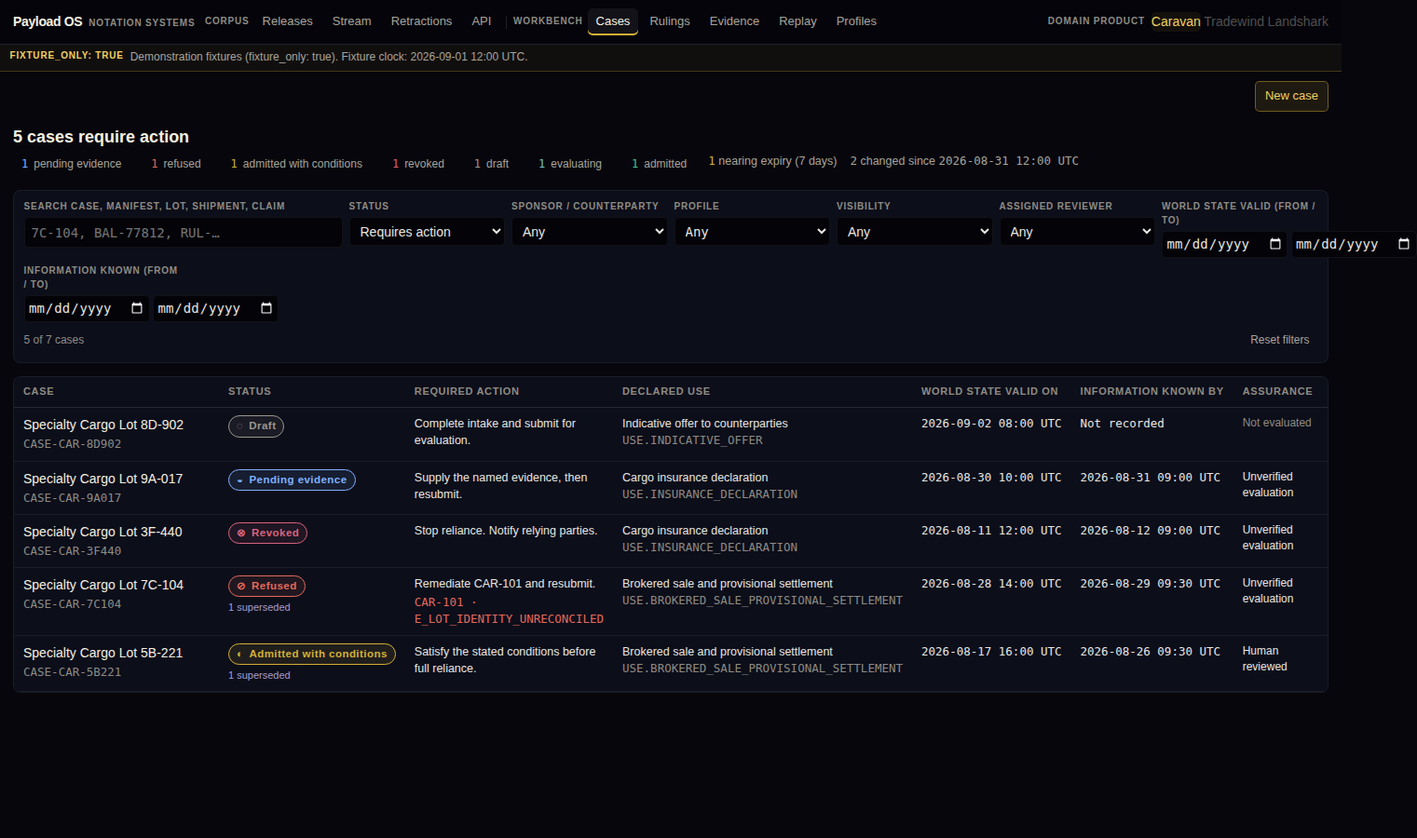
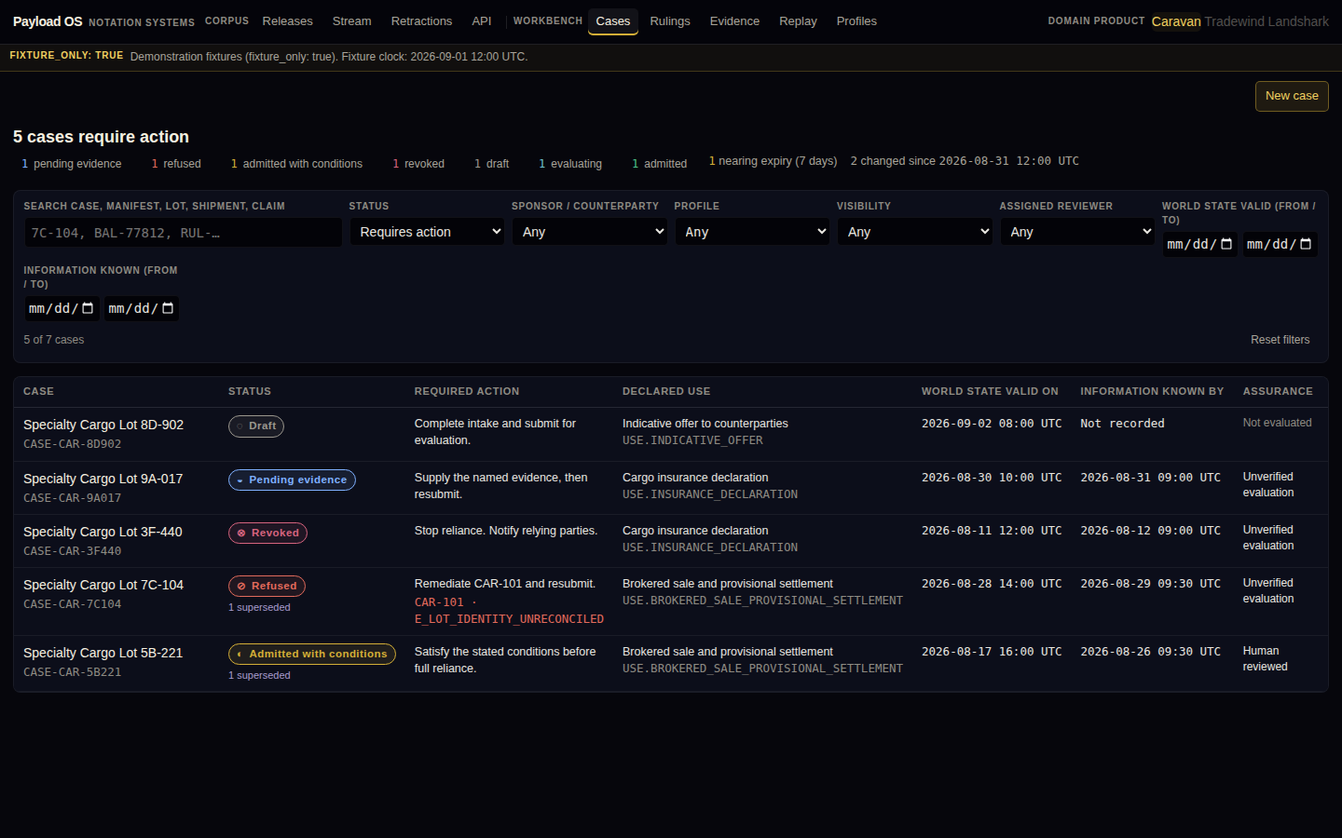
Keep the data-os fit green on mobile and let approval-required publishing name the public audience
Registrations that require approval to PUBLISH now list PUBLIC among their
audiences, so redistribution evaluates to APPROVAL_REQUIRED rather than an
audience denial, and the public projection is withheld by rights before
visibility is consulted. The feed tests and the rights-matrix legend say so.

Mobile Chrome reported a 1558px layout viewport on the release page: the
visually-hidden decision text inside rights-matrix cells is absolutely
positioned, the scroll region was not its containing block, so 63 of those
boxes sat at their static position past the viewport and widened the
document. Every horizontal scroll region is now a positioned container, the
API page tables sit inside scroll regions, and the queue filter controls
shrink to their grid cell. A Playwright guard measures every page, with
disclosures open and closed, so the document never scrolls horizontally.

Also fixes the capture-contract test type and re-stamps the digests.

Claude-Session: https://claude.ai/code/session_01YavvFTG3jpkFTZgGR3Zgq9

diff --git a/src/components/queue/CaseQueue.tsx b/src/components/queue/CaseQueue.tsx
@@ -96,58 +96,58 @@ export function CaseQueue({ cases, lastSeenAt }: { cases: ClaimCaseBundle[]; las
 
       {/* Filters */}
       <form className="surface p-3 grid gap-2 grid-cols-2 md:grid-cols-4 xl:grid-cols-8" aria-label="Queue filters" onSubmit={(e) => e.preventDefault()}>
-        <label className="flex flex-col gap-1 col-span-2">
+        <label className="flex flex-col gap-1 min-w-0 col-span-2">
           <span className="label-sm">Search case, manifest, lot, shipment, claim</span>
-          <input type="search" value={f.q} onChange={(e) => set('q', e.target.value)} placeholder="7C-104, BAL-77812, RUL-…" className="surface-inset px-2 py-1.5 text-[13px] mono" />
+          <input type="search" value={f.q} onChange={(e) => set('q', e.target.value)} placeholder="7C-104, BAL-77812, RUL-…" className="surface-inset px-2 py-1.5 text-[13px] w-full min-w-0 mono" />
         </label>
-        <label className="flex flex-col gap-1">
+        <label className="flex flex-col gap-1 min-w-0">
           <span className="label-sm">Status</span>
-          <select value={f.status} onChange={(e) => set('status', e.target.value as Filters['status'])} className="surface-inset px-2 py-1.5 text-[13px]">
+          <select value={f.status} onChange={(e) => set('status', e.target.value as Filters['status'])} className="surface-inset px-2 py-1.5 text-[13px] w-full min-w-0">
             <option value="ACTION">Requires action</option>
             <option value="ALL">All</option>
             {RULING_STATUSES.map((s) => <option key={s} value={s}>{STATUS_SEMANTICS[s].label}</option>)}
           </select>
         </label>
-        <label className="flex flex-col gap-1">
+        <label className="flex flex-col gap-1 min-w-0">
           <span className="label-sm">Sponsor / counterparty</span>
-          <select value={f.party} onChange={(e) => set('party', e.target.value)} className="surface-inset px-2 py-1.5 text-[13px]">
+          <select value={f.party} onChange={(e) => set('party', e.target.value)} className="surface-inset px-2 py-1.5 text-[13px] w-full min-w-0">
             <option value="">Any</option>
             {parties.map(([id, name]) => <option key={id} value={id}>{name}</option>)}
           </select>
         </label>
-        <label className="flex flex-col gap-1">
+        <label className="flex flex-col gap-1 min-w-0">
           <span className="label-sm">Profile</span>
-          <select value={f.profile} onChange={(e) => set('profile', e.target.value)} className="surface-inset px-2 py-1.5 text-[13px] mono">
+          <select value={f.profile} onChange={(e) => set('profile', e.target.value)} className="surface-inset px-2 py-1.5 text-[13px] w-full min-w-0 mono">
             <option value="">Any</option>
             {profiles.map((p) => <option key={p} value={p}>{p}</option>)}
           </select>
         </label>
-        <label className="flex flex-col gap-1">
+        <label className="flex flex-col gap-1 min-w-0">
           <span className="label-sm">Visibility</span>
-          <select value={f.visibility} onChange={(e) => set('visibility', e.target.value as Filters['visibility'])} className="surface-inset px-2 py-1.5 text-[13px]">
+          <select value={f.visibility} onChange={(e) => set('visibility', e.target.value as Filters['visibility'])} className="surface-inset px-2 py-1.5 text-[13px] w-full min-w-0">
             <option value="ALL">Any</option>
             {VISIBILITY_CLASSES.map((v) => <option key={v} value={v}>{VISIBILITY_SEMANTICS[v].label}</option>)}
           </select>
         </label>
-        <label className="flex flex-col gap-1">
+        <label className="flex flex-col gap-1 min-w-0">
           <span className="label-sm">Assigned reviewer</span>
-          <select value={f.reviewer} onChange={(e) => set('reviewer', e.target.value)} className="surface-inset px-2 py-1.5 text-[13px]">
+          <select value={f.reviewer} onChange={(e) => set('reviewer', e.target.value)} className="surface-inset px-2 py-1.5 text-[13px] w-full min-w-0">
             <option value="">Any</option>
             {reviewers.map(([id, name]) => <option key={id} value={id}>{name}</option>)}
           </select>
         </label>
-        <div className="flex flex-col gap-1">
+        <div className="flex flex-col gap-1 min-w-0">
           <span className="label-sm">World state valid (from / to)</span>
-          <div className="flex gap-1">
-            <input aria-label="Valid from" type="date" value={f.validFrom} onChange={(e) => set('validFrom', e.target.value)} className="surface-inset px-1 py-1 text-[12px] mono w-full" />
-            <input aria-label="Valid to" type="date" value={f.validTo} onChange={(e) => set('validTo', e.target.value)} className="surface-inset px-1 py-1 text-[12px] mono w-full" />
+          <div className="flex gap-1 min-w-0">
+            <input aria-label="Valid from" type="date" value={f.validFrom} onChange={(e) => set('validFrom', e.target.value)} className="surface-inset px-1 py-1 text-[12px] mono w-full min-w-0 flex-1" />
+            <input aria-label="Valid to" type="date" value={f.validTo} onChange={(e) => set('validTo', e.target.value)} className="surface-inset px-1 py-1 text-[12px] mono w-full min-w-0 flex-1" />
           </div>
         </div>
-        <div className="flex flex-col gap-1">
+        <div className="flex flex-col gap-1 min-w-0">
           <span className="label-sm">Information known (from / to)</span>
-          <div className="flex gap-1">
-            <input aria-label="Known from" type="date" value={f.knownFrom} onChange={(e) => set('knownFrom', e.target.value)} className="surface-inset px-1 py-1 text-[12px] mono w-full" />
-            <input aria-label="Known to" type="date" value={f.knownTo} onChange={(e) => set('knownTo', e.target.value)} className="surface-inset px-1 py-1 text-[12px] mono w-full" />
+          <div className="flex gap-1 min-w-0">
+            <input aria-label="Known from" type="date" value={f.knownFrom} onChange={(e) => set('knownFrom', e.target.value)} className="surface-inset px-1 py-1 text-[12px] mono w-full min-w-0 flex-1" />
+            <input aria-label="Known to" type="date" value={f.knownTo} onChange={(e) => set('knownTo', e.target.value)} className="surface-inset px-1 py-1 text-[12px] mono w-full min-w-0 flex-1" />
           </div>
         </div>
         <div className="col-span-2 md:col-span-4 xl:col-span-8 flex items-center justify-between">

diff --git a/src/fixtures/caravan/release.ts b/src/fixtures/caravan/release.ts
@@ -51,11 +51,11 @@ const reg = (r: Omit<SourceRegistration, 'registrationId' | 'sourceId' | 'effect
 });
 
 export const CARAVAN_REGISTRATIONS: Record<string, SourceRegistration> = {
-  'northgate-lims': reg({ local: 'northgate-lims', displayName: 'Northgate Inspection Services LIMS', sourceClass: 'LABORATORY_CERTIFICATE', licenseId: 'northgate-certificate-licence-2026', policyVersion: '1.0.0', permittedPurposes: ['AGGREGATION', 'CARAVAN_CORPUS'], prohibitedPurposes: ['MODEL_TRAINING', 'PROPRIETARY_STRATEGY', 'TRADING'], allowedOperations: ['DERIVE', 'EXPORT', 'INDEX', 'INGEST', 'RETRIEVE'], approvalRequiredOperations: ['PUBLISH'], allowedAudiences: ['CUSTOMER', 'INTERNAL', 'TENANT'], retention: { mode: 'UNTIL_SOURCE_EXPIRY' } }),
-  'port-weighbridge': reg({ local: 'port-weighbridge', displayName: 'Port weighbridge operator', sourceClass: 'WEIGHT_RECORD', licenseId: 'port-weighbridge-data-licence-2026', policyVersion: '1.0.0', permittedPurposes: ['AGGREGATION', 'CARAVAN_CORPUS', 'INTERNAL_RESEARCH'], prohibitedPurposes: ['PROPRIETARY_STRATEGY', 'TRADING'], allowedOperations: ['DERIVE', 'EXPORT', 'INDEX', 'INGEST', 'RETRIEVE'], approvalRequiredOperations: ['PUBLISH'], allowedAudiences: ['CUSTOMER', 'INTERNAL'], retention: { mode: 'INDEFINITE' } }),
-  'terminal-weighbridge': reg({ local: 'terminal-weighbridge', displayName: 'Terminal weighbridge', sourceClass: 'WEIGHT_RECORD', licenseId: 'terminal-weighbridge-data-licence-2026', policyVersion: '1.0.0', permittedPurposes: ['AGGREGATION', 'CARAVAN_CORPUS', 'INTERNAL_RESEARCH'], prohibitedPurposes: ['PROPRIETARY_STRATEGY', 'TRADING'], allowedOperations: ['DERIVE', 'EXPORT', 'INDEX', 'INGEST', 'RETRIEVE'], approvalRequiredOperations: ['PUBLISH'], allowedAudiences: ['CUSTOMER', 'INTERNAL'], retention: { mode: 'INDEFINITE' } }),
+  'northgate-lims': reg({ local: 'northgate-lims', displayName: 'Northgate Inspection Services LIMS', sourceClass: 'LABORATORY_CERTIFICATE', licenseId: 'northgate-certificate-licence-2026', policyVersion: '1.0.0', permittedPurposes: ['AGGREGATION', 'CARAVAN_CORPUS'], prohibitedPurposes: ['MODEL_TRAINING', 'PROPRIETARY_STRATEGY', 'TRADING'], allowedOperations: ['DERIVE', 'EXPORT', 'INDEX', 'INGEST', 'RETRIEVE'], approvalRequiredOperations: ['PUBLISH'], allowedAudiences: ['CUSTOMER', 'INTERNAL', 'PUBLIC', 'TENANT'], retention: { mode: 'UNTIL_SOURCE_EXPIRY' } }),
+  'port-weighbridge': reg({ local: 'port-weighbridge', displayName: 'Port weighbridge operator', sourceClass: 'WEIGHT_RECORD', licenseId: 'port-weighbridge-data-licence-2026', policyVersion: '1.0.0', permittedPurposes: ['AGGREGATION', 'CARAVAN_CORPUS', 'INTERNAL_RESEARCH'], prohibitedPurposes: ['PROPRIETARY_STRATEGY', 'TRADING'], allowedOperations: ['DERIVE', 'EXPORT', 'INDEX', 'INGEST', 'RETRIEVE'], approvalRequiredOperations: ['PUBLISH'], allowedAudiences: ['CUSTOMER', 'INTERNAL', 'PUBLIC'], retention: { mode: 'INDEFINITE' } }),
+  'terminal-weighbridge': reg({ local: 'terminal-weighbridge', displayName: 'Terminal weighbridge', sourceClass: 'WEIGHT_RECORD', licenseId: 'terminal-weighbridge-data-licence-2026', policyVersion: '1.0.0', permittedPurposes: ['AGGREGATION', 'CARAVAN_CORPUS', 'INTERNAL_RESEARCH'], prohibitedPurposes: ['PROPRIETARY_STRATEGY', 'TRADING'], allowedOperations: ['DERIVE', 'EXPORT', 'INDEX', 'INGEST', 'RETRIEVE'], approvalRequiredOperations: ['PUBLISH'], allowedAudiences: ['CUSTOMER', 'INTERNAL', 'PUBLIC'], retention: { mode: 'INDEFINITE' } }),
   'blue-anchor-docs': reg({ local: 'blue-anchor-docs', displayName: 'Blue Anchor Lines documents', sourceClass: 'CARRIER_DOCUMENT', licenseId: 'blue-anchor-named-party-access-2026', policyVersion: '1.0.0', permittedPurposes: ['CARAVAN_CORPUS'], prohibitedPurposes: ['AGGREGATION', 'MODEL_TRAINING', 'PROPRIETARY_STRATEGY', 'TRADING'], allowedOperations: ['DERIVE', 'EXPORT', 'INDEX', 'INGEST', 'RETRIEVE'], allowedAudiences: ['CUSTOMER', 'INTERNAL'], retention: { mode: 'UNTIL_SOURCE_EXPIRY' } }),
-  'port-custody-system': reg({ local: 'port-custody-system', displayName: 'Port custody operator system', sourceClass: 'CUSTODY_RECORD', licenseId: 'port-custody-access-2026', policyVersion: '1.0.0', permittedPurposes: ['AGGREGATION', 'CARAVAN_CORPUS'], prohibitedPurposes: ['PROPRIETARY_STRATEGY', 'TRADING'], allowedOperations: ['DERIVE', 'EXPORT', 'INDEX', 'INGEST', 'RETRIEVE'], approvalRequiredOperations: ['PUBLISH'], allowedAudiences: ['CUSTOMER', 'INTERNAL'], retention: { mode: 'INDEFINITE' } }),
+  'port-custody-system': reg({ local: 'port-custody-system', displayName: 'Port custody operator system', sourceClass: 'CUSTODY_RECORD', licenseId: 'port-custody-access-2026', policyVersion: '1.0.0', permittedPurposes: ['AGGREGATION', 'CARAVAN_CORPUS'], prohibitedPurposes: ['PROPRIETARY_STRATEGY', 'TRADING'], allowedOperations: ['DERIVE', 'EXPORT', 'INDEX', 'INGEST', 'RETRIEVE'], approvalRequiredOperations: ['PUBLISH'], allowedAudiences: ['CUSTOMER', 'INTERNAL', 'PUBLIC'], retention: { mode: 'INDEFINITE' } }),
   'meridian-yard-log': reg({ local: 'meridian-yard-log', displayName: 'Meridian Origination yard log (claimant-supplied)', sourceClass: 'CLAIMANT_SUBMISSION', licenseId: 'claimant-submission-terms-2026', policyVersion: '1.0.0', permittedPurposes: ['CARAVAN_CORPUS'], prohibitedPurposes: ['AGGREGATION', 'INTERNAL_RESEARCH', 'MODEL_TRAINING', 'PROPRIETARY_STRATEGY', 'TRADING'], allowedOperations: ['DERIVE', 'EXPORT', 'INDEX', 'INGEST', 'RETRIEVE'], allowedAudiences: ['CUSTOMER', 'INTERNAL', 'TENANT'], retention: { mode: 'UNTIL', until: '2026-12-31T00:00:00Z' } }),
   'harbourline-deals': reg({ local: 'harbourline-deals', displayName: 'Harbourline Brokerage deal terms', sourceClass: 'SPONSOR_PRIVATE', licenseId: 'sponsor-private-material', policyVersion: '1.0.0', permittedPurposes: ['CARAVAN_CORPUS', 'INTERNAL_RESEARCH'], prohibitedPurposes: ['AGGREGATION', 'MODEL_TRAINING', 'PROPRIETARY_STRATEGY', 'TRADING'], allowedOperations: ['DERIVE', 'INDEX', 'INGEST', 'RETRIEVE'], allowedAudiences: ['INTERNAL', 'TENANT'], retention: { mode: 'UNTIL_SOURCE_EXPIRY' } }),
 };

diff --git a/src/app/api/page.tsx b/src/app/api/page.tsx
@@ -68,7 +68,8 @@ export default async function ApiPage() {
         </header>
 
         <Section title="Endpoints" id="api-endpoints">
-          <table className="ledger-table text-[12.5px]">
+          <div className="surface overflow-x-auto" tabIndex={0}>
+          <table className="ledger-table text-[12.5px]" aria-label="Endpoints">
             <thead><tr><th scope="col">Endpoint</th><th scope="col">Returns</th></tr></thead>
             <tbody>
               <tr><td className="id">GET /api/v1/releases[?corpus=]</td><td>Release history: id, status, knowledge cutoff, build, methodology, digest, supersession.</td></tr>
@@ -81,6 +82,7 @@ export default async function ApiPage() {
               <tr><td className="id">GET /api/v1/rulings/:id/manifest</td><td>The <span className="id">notations.result-manifest.v1</span> sidecar and its commitment.</td></tr>
             </tbody>
           </table>
+          </div>
           <p className="m-0 text-[12px]" style={{ color: 'var(--text-muted)' }}>Projections served: <span className="id">COUNTERPARTY_SHARED</span> (default) and <span className="id">PUBLIC_RULING</span>. Internal classes are never served. Times are ISO 8601 UTC. Responses are uncached and carry <span className="id">X-Payload-Fixture-Only: true</span>.</p>
         </Section>
 
@@ -106,6 +108,7 @@ export default async function ApiPage() {
 
         <Section title="MCP tools" id="api-mcp">
           <p className="m-0 text-[12.5px]" style={{ color: 'var(--text-secondary)' }}>The same feed, exposed as tools for a model client. One logic path: each tool wraps the payload the HTTP endpoint serves. A refusal is a successful return with a remedy; tool errors are for malformed arguments only. Run with <span className="id">npm run mcp</span> (stdio; opens no port).</p>
+          <div className="surface overflow-x-auto" tabIndex={0}>
           <table className="ledger-table text-[12.5px]" aria-label="MCP tools">
             <thead><tr><th scope="col">Tool</th><th scope="col">Arguments</th><th scope="col">Returns</th></tr></thead>
             <tbody>
@@ -118,6 +121,7 @@ export default async function ApiPage() {
               ))}
             </tbody>
           </table>
+          </div>
         </Section>
 
         <Section title="Adapter contracts" id="api-contract" aside={<CopyButton value={`${CORPUS_CONTRACT}\n\n${CASE_CONTRACT}`} />}>
@@ -126,7 +130,8 @@ export default async function ApiPage() {
         </Section>
 
         <Section title="Substrate vocabulary carried by the feed" id="api-vocab">
-          <table className="ledger-table text-[12.5px]">
+          <div className="surface overflow-x-auto" tabIndex={0}>
+          <table className="ledger-table text-[12.5px]" aria-label="Substrate vocabulary">
             <thead><tr><th scope="col">Concept</th><th scope="col">Substrate origin</th><th scope="col">Feed field</th></tr></thead>
             <tbody>
               <tr><td>Evidence class, two axes + interest</td><td className="id">corpus-contract/contract.json 1.0.0</td><td className="id">evidenceClass.claimStrength / productionClass / interest</td></tr>
@@ -141,6 +146,7 @@ export default async function ApiPage() {
               <tr><td>Refusal with remedy</td><td className="id">controlTower.ts {'{'}kind:&apos;refusal&apos;, code, detail, remedy{'}'}</td><td className="id">refusal.code / reason / remedy</td></tr>
             </tbody>
           </table>
+          </div>
         </Section>
       </div>
     </>

diff --git a/tests/e2e/overflow.spec.ts b/tests/e2e/overflow.spec.ts
@@ -1,0 +1,24 @@
+import { expect, test } from '@playwright/test';
+
+// The page body never scrolls horizontally: wide tables scroll inside their
+// own region, and nothing positioned inside a scroll region escapes it. On
+// mobile Chrome an escaped box widens the layout viewport and every pointer
+// coordinate after it lands on the wrong element.
+const PAGES = ['/', '/cases', '/cases/new', '/cases/CASE-7C104', '/cases/CASE-5B221', '/evidence', '/profiles', '/rulings', '/rulings/RUL-5B221', '/replay', '/replay/CASE-7C104', '/releases', '/releases/REL-CAR-2026.09.01', '/stream', '/retractions', '/product', '/api'];
+
+for (const path of PAGES) {
+  test(`no horizontal document overflow on ${path}, disclosures open`, async ({ page }) => {
+    await page.goto(path);
+    // The root redirects to the corpus; measure the page it lands on.
+    if (path === '/') await page.waitForURL((u) => u.pathname !== '/');
+    await page.waitForLoadState('load');
+    const measure = () => page.evaluate(() => ({ client: document.documentElement.clientWidth, scroll: document.documentElement.scrollWidth, inner: window.innerWidth }));
+    const closed = await measure();
+    expect(closed.scroll, `closed disclosures: scrollWidth ${closed.scroll} > clientWidth ${closed.client}`).toBeLessThanOrEqual(closed.client);
+    expect(closed.inner, 'layout viewport widened with disclosures closed').toBe(closed.client);
+    await page.evaluate(() => { for (const d of document.querySelectorAll('details')) d.open = true; });
+    const open = await measure();
+    expect(open.scroll, `open disclosures: scrollWidth ${open.scroll} > clientWidth ${open.client}`).toBeLessThanOrEqual(open.client);
+    expect(open.inner, 'layout viewport widened with disclosures open').toBe(open.client);
+  });
+}

diff --git a/src/adapter/feed.test.ts b/src/adapter/feed.test.ts
@@ -35,10 +35,12 @@ describe('feed payloads', () => {
     expect(JSON.stringify(all)).not.toContain('contract.moisture_max');
   });
 
-  it('the public projection withholds counterparty records', async () => {
+  it('the public projection withholds every record: publishing needs approval before visibility is even consulted', async () => {
     const pub = await recordsPayload(CURRENT, 'PUBLIC_RULING');
     expect(pub?.count).toBe(0);
-    expect(pub?.withheld.byVisibility).toBeGreaterThan(0);
+    expect(pub?.withheld.byRights).toBeGreaterThan(0);
+    expect(pub?.withheld.byVisibility).toBe(0);
+    expect(pub?.withheld.reasons).toMatchObject({ EXPLICIT_APPROVAL_REQUIRED: expect.any(Number) });
   });
 
   it('as-of returns a typed refusal with a remedy, never a zero', async () => {
@@ -106,7 +108,7 @@ describe('certification, rights and attribution', () => {
     }
     const p = await recordsPayload(CURRENT, 'COUNTERPARTY_SHARED', { subjectId: 'SAMPLE-S-4402' });
     const rec = p!.records.find((r) => r.recordId === 'REC-0201')!;
-    expect(rec.rights?.attribution).toBe('Northgate Inspection Services LIMS — Inspection-certificate licence (demonstration)');
+    expect(rec.rights?.attribution).toBe('Northgate Inspection Services LIMS — northgate-certificate-licence-2026');
     expect(rec.rights?.permittedUses).toContain('customer_delivery');
     const a = await asOfPayload(CURRENT, { subjectId: 'LOT-5B-221', predicate: 'quantity.gross', validAt: '2026-08-17T16:00:00Z', knownAt: '2026-09-01T12:00:00Z' });
     expect(a?.answer?.rights?.sourceName).toBe('Terminal weighbridge');

diff --git a/tests/e2e/smoke.spec.ts b/tests/e2e/smoke.spec.ts
@@ -93,7 +93,11 @@ test('a release page states certification, the production record and the rights 
   await expect(matrix.locator('[data-use="customer_delivery"][data-permitted="false"]')).toHaveCount(1);
   await expect(matrix.locator('[data-use="customer_delivery"][data-decision="DENIED"]')).toHaveCount(1);
   await expect(matrix.locator('[data-use="redistribution"][data-decision="APPROVAL_REQUIRED"]')).toHaveCount(4);
-  await expect(page.getByRole('table', { name: 'Source registrations' })).toBeAttached();
+  await page.getByText('Source registrations of record').click();
+  const registrations = page.getByRole('table', { name: 'Source registrations' });
+  await expect(registrations).toBeVisible();
+  await expect(registrations).toContainText('TRADING');
+  await expect(registrations.locator('[data-registration-id]')).toHaveCount(7);
   const manifest = await (await page.request.get('/api/v1/releases/REL-CAR-2026.09.01/manifest')).json();
   expect(manifest.manifest.certification.status).toBe('CERTIFIED');
 });

diff --git a/src/components/corpus/RightsMatrix.tsx b/src/components/corpus/RightsMatrix.tsx
@@ -49,7 +49,7 @@ export function RightsMatrix({ sources, at }: { sources: RightsSchedule[]; at: s
           ))}
         </tbody>
       </table>
-      <p className="m-0 px-3 py-2 text-[11.5px]" style={{ color: 'var(--text-muted)' }}>✓ permitted · ✕ prohibited. A use absent from a source&apos;s schedule is prohibited; nothing defaults to permitted. Explicit non-use statements are on the release page.</p>
+      <p className="m-0 px-3 py-2 text-[11.5px]" style={{ color: 'var(--text-muted)' }}>✓ allowed · ◐ approval required · ✕ denied. Each cell is one source-use request evaluated against the source&apos;s registration at {fmtUtc(at)}; hover a cell for the policy reasons. Nothing defaults to allowed. Explicit non-use statements are below.</p>
     </div>
   );
 }

diff --git a/src/fixtures/capture.contract.test.ts b/src/fixtures/capture.contract.test.ts
@@ -15,7 +15,7 @@ import { captureEvidence, InMemoryContentAddressedStore, storageKeyFor, verifyEv
 import { deliveryDecision, currentRelease, derivePermittedUses, USE_REQUESTS } from '@/domain/corpus';
 
 describe('fixture captures reproduce under the data-os evidence-capture contract', () => {
-  const artifacts = new Map<string, FIXTURE_CASES[number]['evidence'][number]>();
+  const artifacts = new Map<string, (typeof FIXTURE_CASES)[number]['evidence'][number]>();
   for (const c of FIXTURE_CASES) for (const e of c.evidence) artifacts.set(e.evidenceId, e);
 
   it('captures every artifact only under an explicitly ALLOWED INGEST decision and reproduces the stamped binding', () => {

diff --git a/src/app/globals.css b/src/app/globals.css
@@ -175,6 +175,12 @@ button:disabled { cursor: not-allowed; opacity: 0.55; }
   border: 1px solid var(--border-subtle);
   border-radius: var(--radius-lg);
 }
+/* A horizontal scroll region is the containing block for anything positioned
+   inside it (visually-hidden text in table cells, for one). Otherwise those
+   boxes escape the clip, sit at their static position far to the right, and
+   widen the document's scrollable overflow; mobile Chrome then reports a
+   layout viewport as wide as the widest table. */
+[class~='overflow-x-auto'] { position: relative; }
 .surface-raised {
   background: var(--bg-tertiary);
   border: 1px solid var(--border-default);

diff --git a/docs/INTERACTION_SPEC.md b/docs/INTERACTION_SPEC.md
@@ -67,4 +67,4 @@ A superseding ruling carries `supersedesRulingId`; the superseded ruling carries
 
 Skip link is the first tab stop; the primary nav uses `aria-current`; every selectable row is a `<button>` with `aria-pressed`; grouped controls use `role="group"` with labels; tables have `<th scope>`; scroll containers are focusable; the workspace grid collapses to decision rail → centre → structure on narrow screens with each landmark intact; `prefers-reduced-motion` disables transitions; the print stylesheet gives the ruling a light background. axe (WCAG 2.2 AA tags) reports no serious or critical violations on the queue, the workspace and the ruling viewer [E-axe]; the mobile ruling viewer does not scroll horizontally [E-mobile].
 
-Check numbers: T1–T7 in `src/components/**/*.test.tsx` and `src/domain/selectors.test.ts`; C-asof, C-retract, C-rights and C-cert in `src/domain/corpus.test.ts`, `src/adapter/feed.test.ts`, `src/app/api/v1/routes.test.ts` and `src/components/corpus/StreamExplorer.test.tsx`; E-axe, E-mobile, the keyboard walk and the feed checks in `tests/e2e/smoke.spec.ts`.
+Check numbers: T1–T7 in `src/components/**/*.test.tsx` and `src/domain/selectors.test.ts`; C-asof, C-retract, C-rights and C-cert in `src/domain/corpus.test.ts`, `src/adapter/feed.test.ts`, `src/app/api/v1/routes.test.ts` and `src/components/corpus/StreamExplorer.test.tsx`; E-axe, E-mobile, the keyboard walk and the feed checks in `tests/e2e/smoke.spec.ts`; E-overflow (the document never scrolls horizontally on any page, disclosures open or closed, so a wide table scrolls inside its own region and nothing positioned inside a scroll region escapes it) in `tests/e2e/overflow.spec.ts`.

diff --git a/README.md b/README.md
@@ -21,7 +21,7 @@ npm run typecheck      # tsc --noEmit
 npm run lint           # eslint
 npm test               # vitest: node tests for selectors/fixtures, jsdom tests for screens
 npm run stamp:digests  # recompute committed sha256 digests after editing a fixture
-npm run e2e            # playwright: smoke, axe (WCAG 2.2 AA), keyboard, mobile
+npm run e2e            # playwright: smoke, axe (WCAG 2.2 AA), keyboard, mobile, no horizontal document overflow
 npm run screenshots    # writes docs/screenshots/*.png
 npm run mcp            # MCP server over the fixture feed (stdio)
 ```
@@ -49,5 +49,5 @@ src/components  primitives, case workspace, ruling viewer, replay, queue, intake
 src/app         product model: /product
                 corpus: /releases, /releases/[releaseId], /stream, /retractions, /api, /api/v1/* (fixture feed)
                 workbench: /cases, /cases/new, /cases/[caseId], /rulings, /rulings/[rulingId], /replay/[caseId], /profiles, /evidence
-tests/e2e       Playwright smoke, accessibility, keyboard, mobile, screenshots
+tests/e2e       Playwright smoke, accessibility, keyboard, mobile, overflow guard, screenshots
 ```
